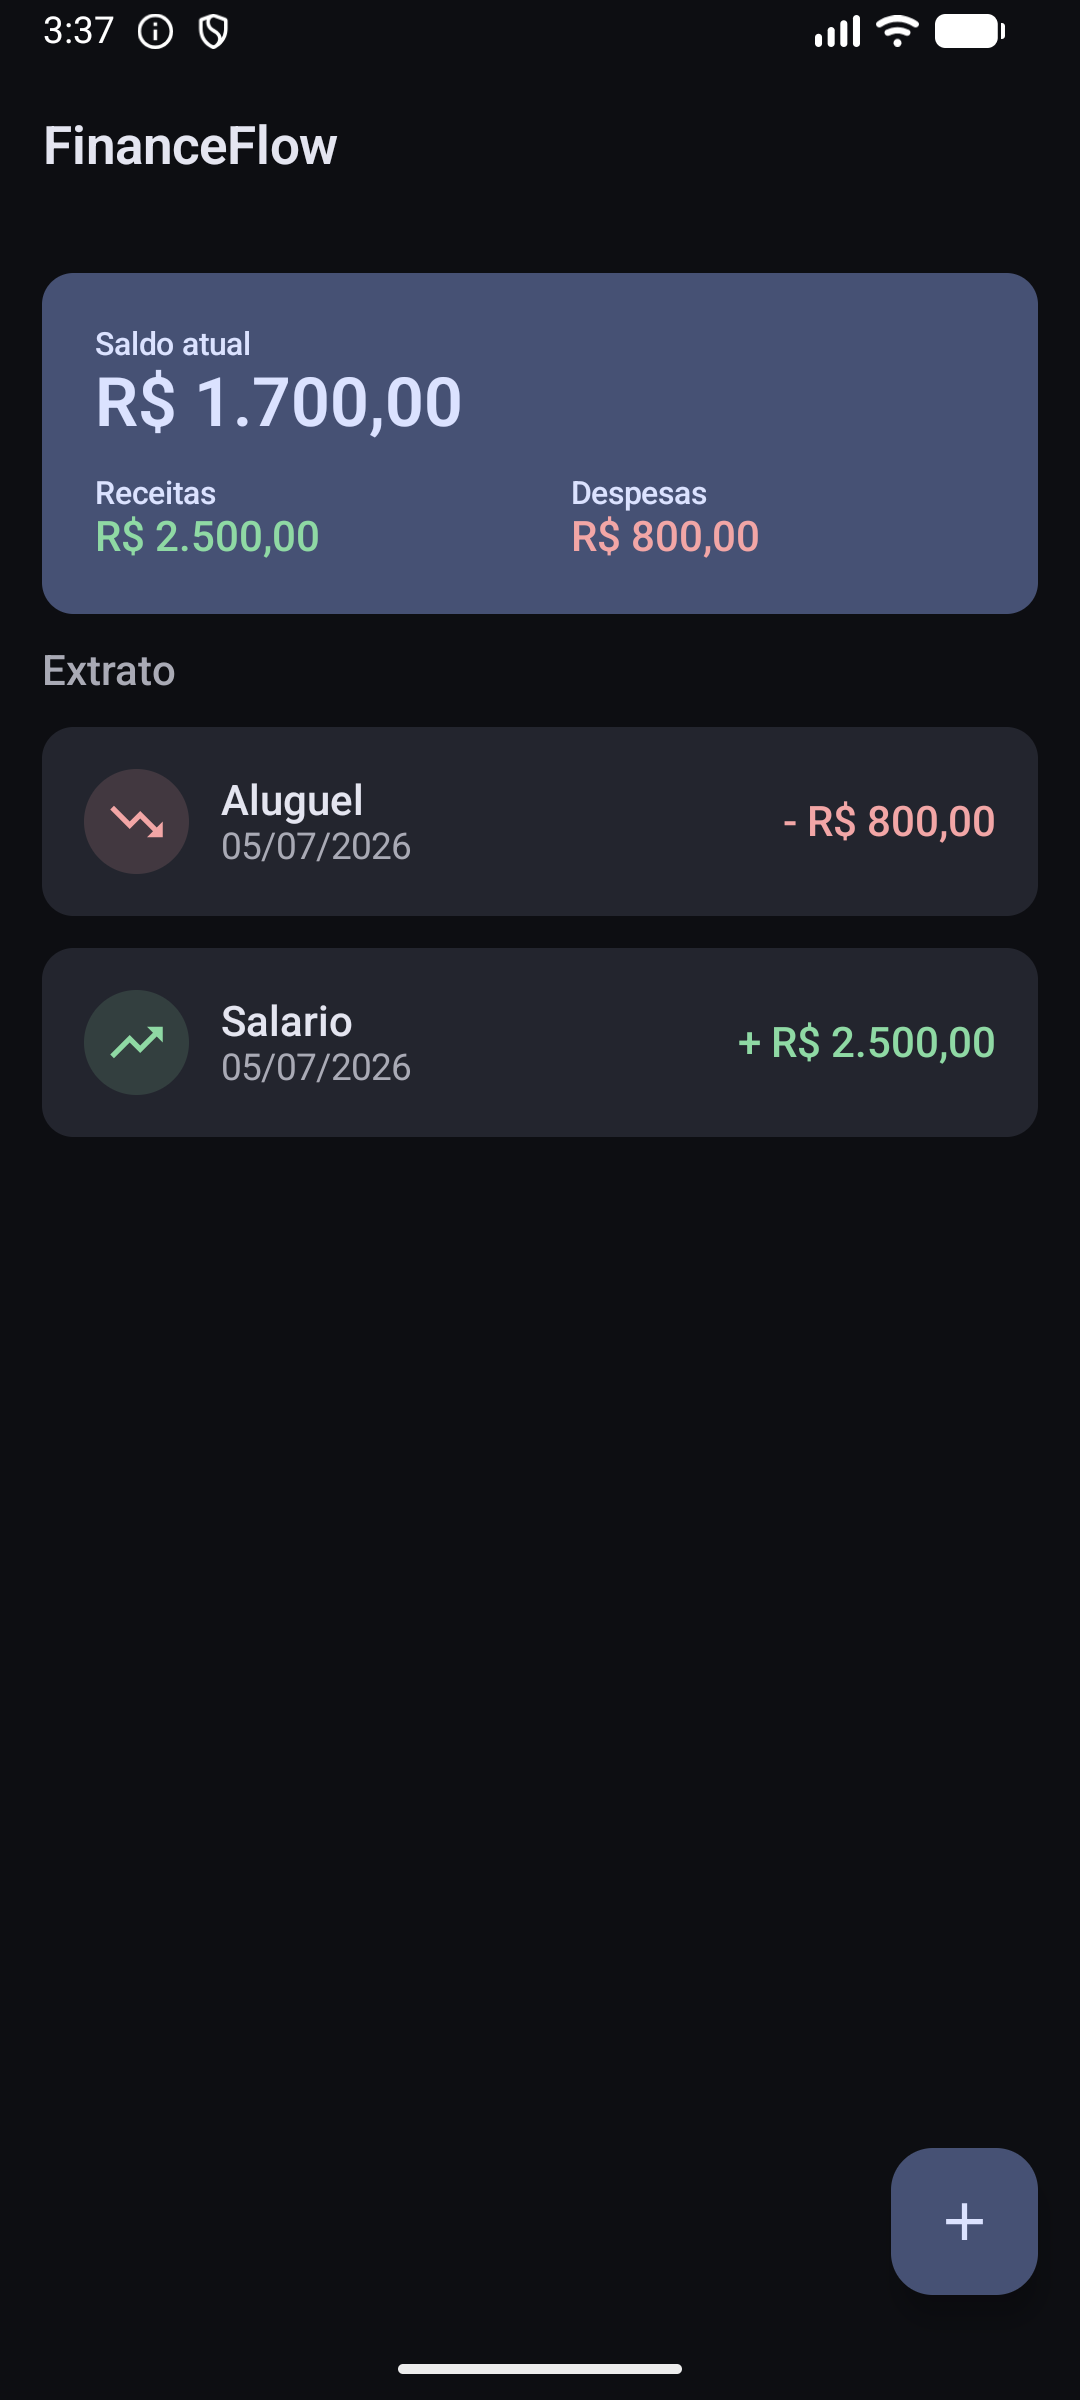
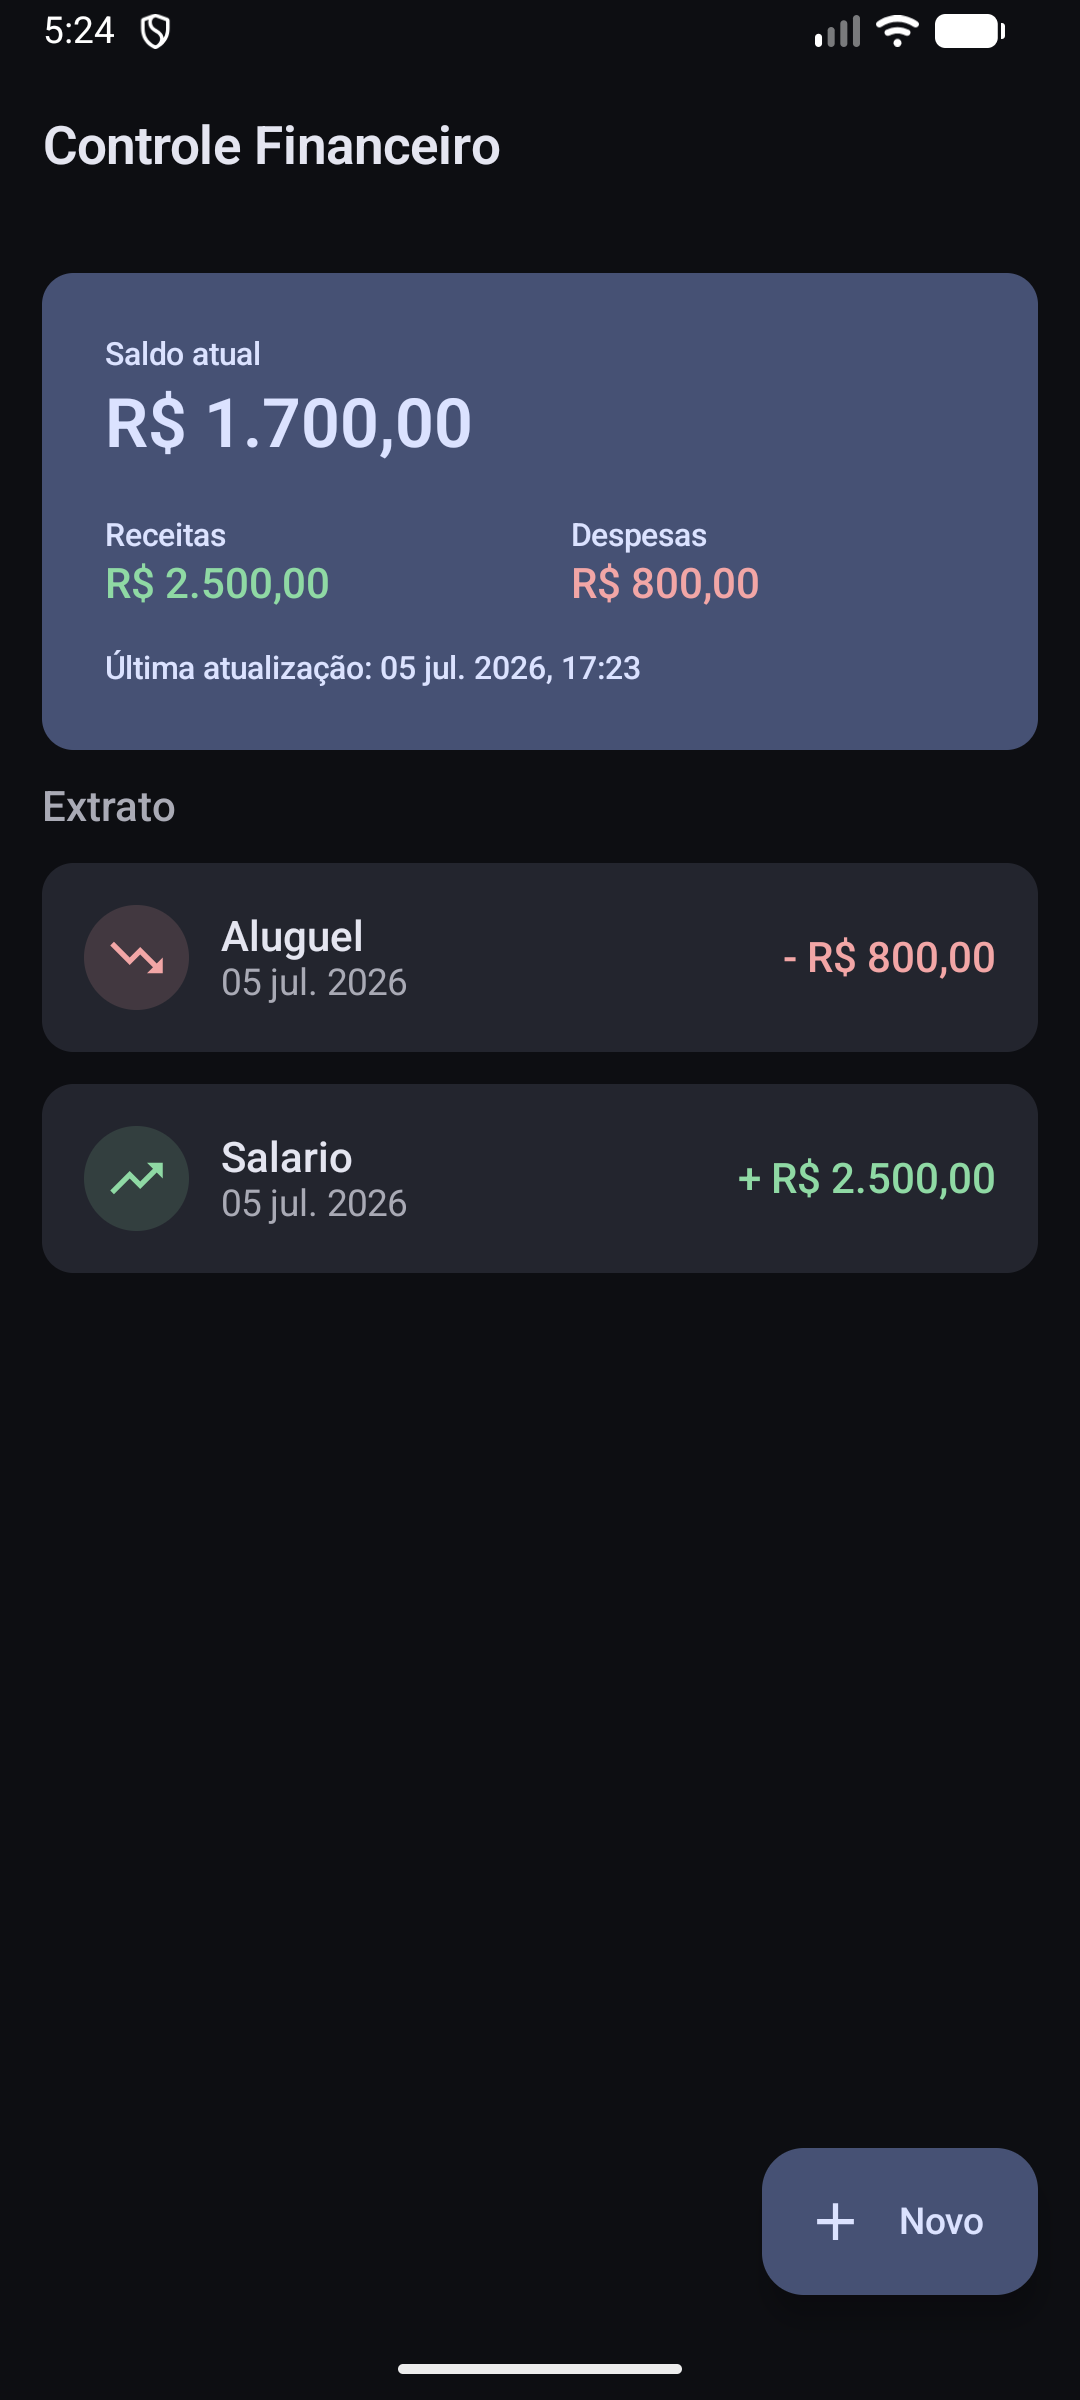
docs: refresh screenshots and note internationalization
Update the screenshots to the refined interface and list the snackbar confirmation and pt/en internationalization in the features.

diff --git a/README.md b/README.md
@@ -40,8 +40,10 @@ Material Design 3, respeitando o conteúdo ministrado na disciplina.
 - Saldo calculado automaticamente, com totais de receitas e despesas
 - Seleção de data via DatePicker do Material 3
 - Validação de campos com mensagens amigáveis
+- Confirmação visual ao salvar (Snackbar)
 - Persistência local com SQLite
 - Tema claro, tema escuro e Dynamic Color (Android 12+)
+- Internacionalização completa (português e inglês)
 
 ## 🏗 Arquitetura
 
